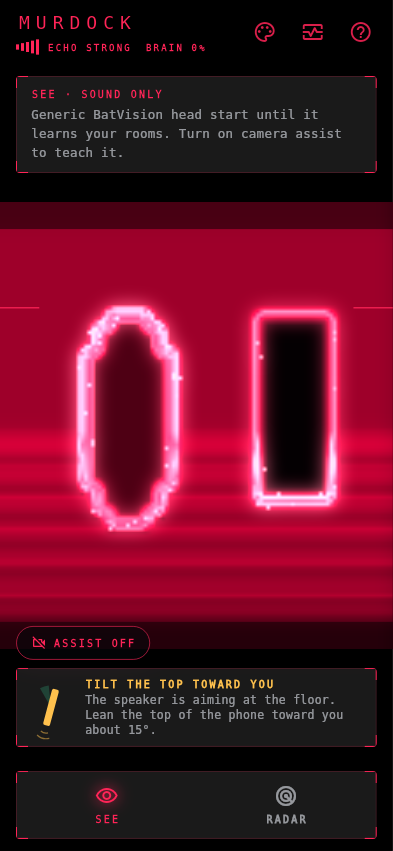
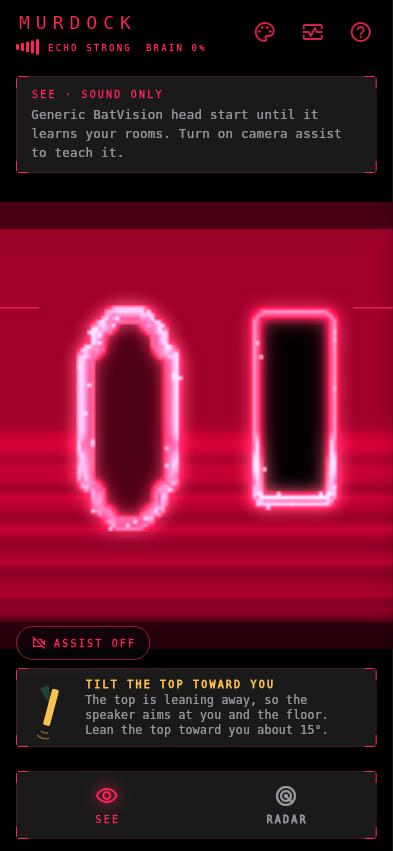
Fix inverted tilt in the GRIP indicator
Tilting the top toward you turns the screen toward the floor (gravity's z
component goes negative), so tilt = atan2(-gz, gy). The advice was right, the
measurement sign was wrong. Also: 'too flat' now means screen-up (tilt < -40),
a separate warning covers tilting too far toward you, the over-target message
says 'tilt the top back', and the saved taught tilt (old sign) is reset.

Claude-Session: https://claude.ai/code/session_01FaaL1WKpQiBqvyPWN8qiJK

Changed region(s): [[0.2748, 0.7944, 0.855, 0.886], [0.2137, 0.8249, 0.2443, 0.8555]]

diff --git a/lib/ui/grip.dart b/lib/ui/grip.dart
@@ -7,6 +7,7 @@ import 'hud.dart';
 
 /// Recommended grip: portrait, back camera facing the room, top tilted toward you by about
 /// this much so the bottom-edge speaker points forward instead of at the floor.
+/// Tilt sign (from MainActivity): positive = top toward you, negative = top away / screen up.
 const double kIdealTilt = 18;
 const double kTiltTolerance = 12;
 
@@ -35,19 +36,23 @@ class GripAdvice {
     if (roll.abs() > 35) {
       return const GripAdvice(GripLevel.bad, 'HOLD IT UPRIGHT', 'Turn the phone to portrait, back camera facing the room.');
     }
+    if (tilt < -40) {
+      return const GripAdvice(GripLevel.bad, 'TOO FLAT', 'Raise the phone upright so the back camera faces the room.');
+    }
     if (tilt > 55) {
-      return const GripAdvice(GripLevel.bad, 'TOO FLAT', 'Raise the phone so the back camera faces the room.');
+      return const GripAdvice(GripLevel.bad, 'TILTED TOO FAR TOWARD YOU',
+          'The camera is aiming at the ceiling. Bring the top of the phone back up.');
     }
     if (tilt < -5) {
       return const GripAdvice(GripLevel.warn, 'TILT THE TOP TOWARD YOU',
-          'The speaker is aiming at the floor. Lean the top of the phone toward you about 15°.');
+          'The top is leaning away, so the speaker aims at you and the floor. Lean the top toward you about 15°.');
     }
     if (checkTaught && taughtTilt != null && (tilt - taughtTilt).abs() > 15) {
       return GripAdvice(GripLevel.warn, 'NOT HOW YOU TAUGHT IT',
           'You taught it at ${taughtTilt.round()}°; now ${tilt.round()}°. Match the grip for a better picture.');
     }
     if ((tilt - kIdealTilt).abs() > kTiltTolerance) {
-      return GripAdvice(GripLevel.warn, tilt < kIdealTilt ? 'TILT THE TOP TOWARD YOU A LITTLE' : 'A BIT TOO FLAT',
+      return GripAdvice(GripLevel.warn, tilt < kIdealTilt ? 'TILT THE TOP TOWARD YOU A LITTLE' : 'TILT THE TOP BACK A LITTLE',
           'Aim for about ${kIdealTilt.round()}° so the bottom speaker points ahead. Now ${tilt.round()}°.');
     }
     return GripAdvice(GripLevel.ok, 'GRIP OK', '${tilt.round()}° · fingers clear of the bottom edge');

diff --git a/android/app/src/main/kotlin/com/murdock/murdock/MainActivity.kt b/android/app/src/main/kotlin/com/murdock/murdock/MainActivity.kt
@@ -264,8 +264,11 @@ class MainActivity : FlutterActivity() {
     private fun reply(result: MethodChannel.Result, value: Any?) = main.post { result.success(value) }
 
     // ── Grip / tilt, for the GRIP indicator ─────────────────────────────────────────────
-    // Gravity in device coordinates -> tilt (0 = upright portrait, 90 = lying flat screen-up)
-    // and roll (sideways lean; ~±90 in landscape). Sent to Dart at most 5x a second.
+    // Gravity in device coordinates -> tilt and roll, sent to Dart at most 5x a second.
+    //   tilt: 0 = upright portrait; POSITIVE = top tilted toward the user (screen turning
+    //         toward the floor, bottom-edge speaker aiming forward); -90 = flat, screen up.
+    //   roll: sideways lean; about ±90 in landscape.
+    // (At rest the sensor reads +g along the axis pointing up: upright gives +y, screen-up +z.)
     private var lastPose = 0L
     private val poseListener = object : SensorEventListener {
         override fun onSensorChanged(e: SensorEvent) {
@@ -273,7 +276,7 @@ class MainActivity : FlutterActivity() {
             if (now - lastPose < 200) return
             lastPose = now
             val (gx, gy, gz) = e.values
-            val tilt = Math.toDegrees(kotlin.math.atan2(gz.toDouble(), gy.toDouble()))
+            val tilt = Math.toDegrees(kotlin.math.atan2(-gz.toDouble(), gy.toDouble()))
             val roll = Math.toDegrees(kotlin.math.atan2(gx.toDouble(), kotlin.math.hypot(gy.toDouble(), gz.toDouble())))
             emit(mapOf("type" to "pose", "tilt" to tilt, "roll" to roll))
         }

diff --git a/test/widget_test.dart b/test/widget_test.dart
@@ -34,13 +34,23 @@ void main() {
 
     test('ideal tilt is OK', () => expect(level(18), GripLevel.ok));
     test('bolt upright: tilt the top toward you', () => expect(level(0), GripLevel.warn));
-    test('speaker aimed at the floor', () => expect(level(-20), GripLevel.warn));
-    test('lying flat is bad', () => expect(level(70), GripLevel.bad));
+    test('top leaning away: speaker aims at you and the floor', () => expect(level(-20), GripLevel.warn));
+    test('lying flat (screen up) is bad', () => expect(level(-70), GripLevel.bad));
+    test('tilted far toward you is bad', () => expect(level(70), GripLevel.bad));
     test('landscape is bad', () => expect(level(18, roll: 80), GripLevel.bad));
     test('covered speaker beats everything', () => expect(level(18, db: -12), GripLevel.bad));
     test('a few dB quieter is fine', () => expect(level(18, db: -3), GripLevel.ok));
     test('SEE warns when the grip differs from teaching',
         () => expect(level(25, taught: 5, see: true), GripLevel.warn));
     test('TEACH ignores the taught grip', () => expect(level(25, taught: 5), GripLevel.ok));
+  });
+
+  test('grip messages point the right way', () {
+    String title(double t) =>
+        GripAdvice.of(tilt: t, roll: 0, directDb: double.nan).title;
+    expect(title(0), 'TILT THE TOP TOWARD YOU A LITTLE'); // upright: needs top toward you
+    expect(title(-20), 'TILT THE TOP TOWARD YOU'); // leaning away: needs top toward you
+    expect(title(40), 'TILT THE TOP BACK A LITTLE'); // too far toward you
+    expect(title(18), 'GRIP OK');
   });
 }

diff --git a/lib/home_page.dart b/lib/home_page.dart
@@ -85,7 +85,7 @@ class _HomePageState extends State<HomePage> with WidgetsBindingObserver {
           _tilt = p.tilt;
           _roll = p.roll;
         })));
-    _sonar.getNumber('taughtTilt').then((t) => _taughtTilt = t);
+    _sonar.getNumber('taughtTilt2').then((t) => _taughtTilt = t);
     _sonar.getFlag('assistOff').then((off) => setState(() => _assist = !off));
     _subs.add(_sonar.stats.listen((s) => setState(() {
           _stats = s;
@@ -202,7 +202,7 @@ class _HomePageState extends State<HomePage> with WidgetsBindingObserver {
       final session = _sessionTiltSum / _sessionTiltN;
       final prev = _taughtTilt;
       _taughtTilt = prev == null ? session : (prev + session) / 2;
-      await _sonar.setNumber('taughtTilt', _taughtTilt!);
+      await _sonar.setNumber('taughtTilt2', _taughtTilt!);
       _sessionTiltN = 0;
     }
   }

diff --git a/lib/sonar/sonar_channel.dart b/lib/sonar/sonar_channel.dart
@@ -152,7 +152,8 @@ class SonarChannel {
 
   Stream<BrainFrame> get brain => _raw.where((m) => m['type'] == 'brain').map(BrainFrame.new);
 
-  /// Phone tilt in degrees: 0 = upright portrait, 90 = flat screen-up; roll ~±90 = landscape.
+  /// Phone tilt in degrees: 0 = upright portrait, positive = top tilted toward you (speaker
+  /// aims forward), -90 = lying flat screen-up. Roll ~±90 = landscape.
   Stream<({double tilt, double roll})> get pose => _raw
       .where((m) => m['type'] == 'pose')
       .map((m) => (tilt: (m['tilt']! as num).toDouble(), roll: (m['roll']! as num).toDouble()));
